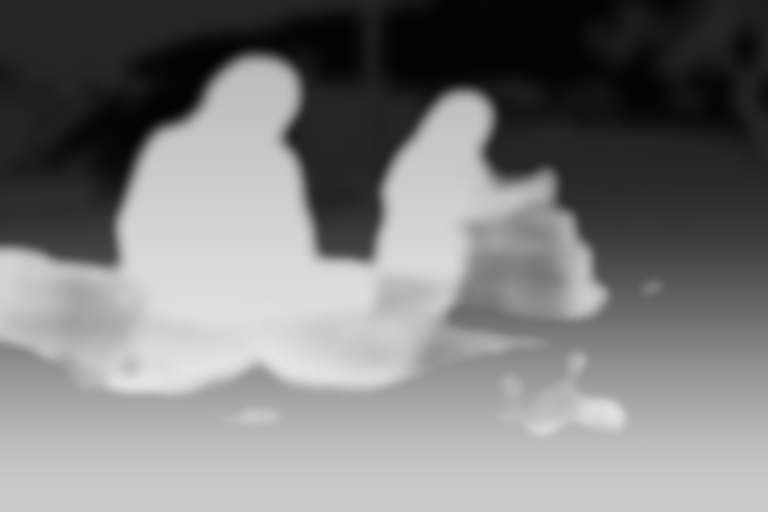
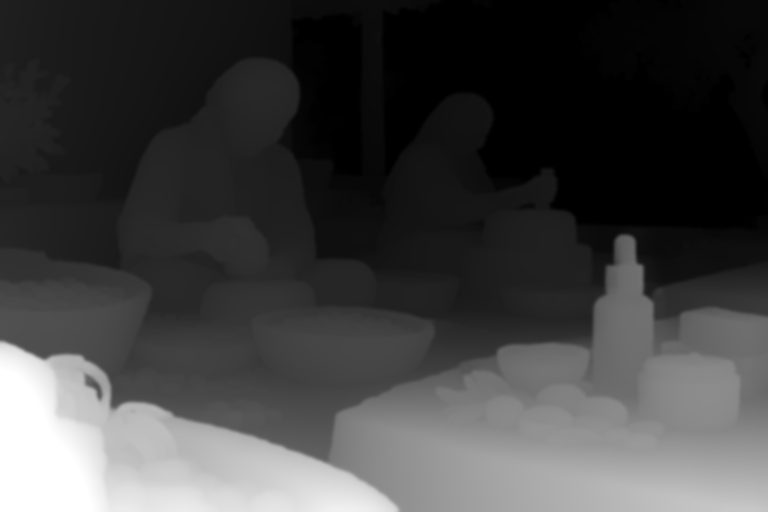
Depth maps from Depth Anything V2 for the 3D story scene
make-scene.py now runs Depth Anything V2 Small (ONNX) when the model
is cached locally, and keeps the rembg-based approximation as a
fallback.

diff --git a/scripts/make-scene.py b/scripts/make-scene.py
@@ -5,7 +5,10 @@ For each image in assets-src/scene/ it writes to public/scene/:
   <name>.webp        colour image, 1600 px wide
   <name>-depth.png   greyscale depth map (white = near, black = far)
 
-The depth map is approximated without a depth model:
+Depth comes from Depth Anything V2 Small (ONNX) when the model is present at
+~/.cache/saramaya-models/depth-anything-v2-small/model.onnx
+(https://huggingface.co/onnx-community/depth-anything-v2-small, onnx/model.onnx).
+Without it, the depth map is approximated:
   - ground plane: the lower the pixel, the nearer it is
   - sky: bright, low-saturation pixels in the upper part are pushed far away
   - subjects: the people and products found by rembg (isnet) are pulled forward
@@ -22,7 +25,27 @@ SRC = ROOT / "assets-src" / "scene"
 OUT = ROOT / "public" / "scene"
 OUT.mkdir(parents=True, exist_ok=True)
 
+MODEL = Path.home() / ".cache" / "saramaya-models" / "depth-anything-v2-small" / "model.onnx"
 session = new_session("isnet-general-use")
+depth_model = None
+if MODEL.exists():
+    import onnxruntime as ort
+
+    depth_model = ort.InferenceSession(str(MODEL), providers=["CoreMLExecutionProvider", "CPUExecutionProvider"])
+
+
+def model_depth(img, w, h):
+    """Relative depth from Depth Anything V2, normalised to 0 (far) .. 1 (near)."""
+    iw, ih = 1036, 14 * round(1036 * img.height / img.width / 14)
+    x = np.asarray(img.resize((iw, ih), Image.BICUBIC), dtype=np.float32) / 255.0
+    x = (x - [0.485, 0.456, 0.406]) / [0.229, 0.224, 0.225]
+    x = x.transpose(2, 0, 1)[None].astype(np.float32)
+    d = depth_model.run(None, {"pixel_values": x})[0][0]
+    lo, hi = np.percentile(d, [2, 98])
+    d = np.clip((d - lo) / (hi - lo), 0, 1)
+    out = Image.fromarray((d * 255).astype(np.uint8), "L").resize((w, h), Image.BICUBIC)
+    # widen near objects slightly so their edges do not drag the background along
+    return out.filter(ImageFilter.MaxFilter(5)).filter(ImageFilter.GaussianBlur(1.5))
 
 
 def smoothstep(a, b, x):
@@ -38,6 +61,11 @@ for path in sorted(SRC.glob("*.png")):
     small = img.resize((w, h), Image.LANCZOS)
     rgb = np.asarray(small, dtype=np.float32) / 255.0
     y = np.linspace(0, 1, h)[:, None] * np.ones((1, w))
+
+    if depth_model is not None:
+        model_depth(img, w, h).save(OUT / f"{path.stem}-depth.png", optimize=True)
+        print(path.stem, img.size, "->", (w, h), "(Depth Anything V2)")
+        continue
 
     ground = 0.15 + 0.65 * smoothstep(0.3, 1.0, y)
 
